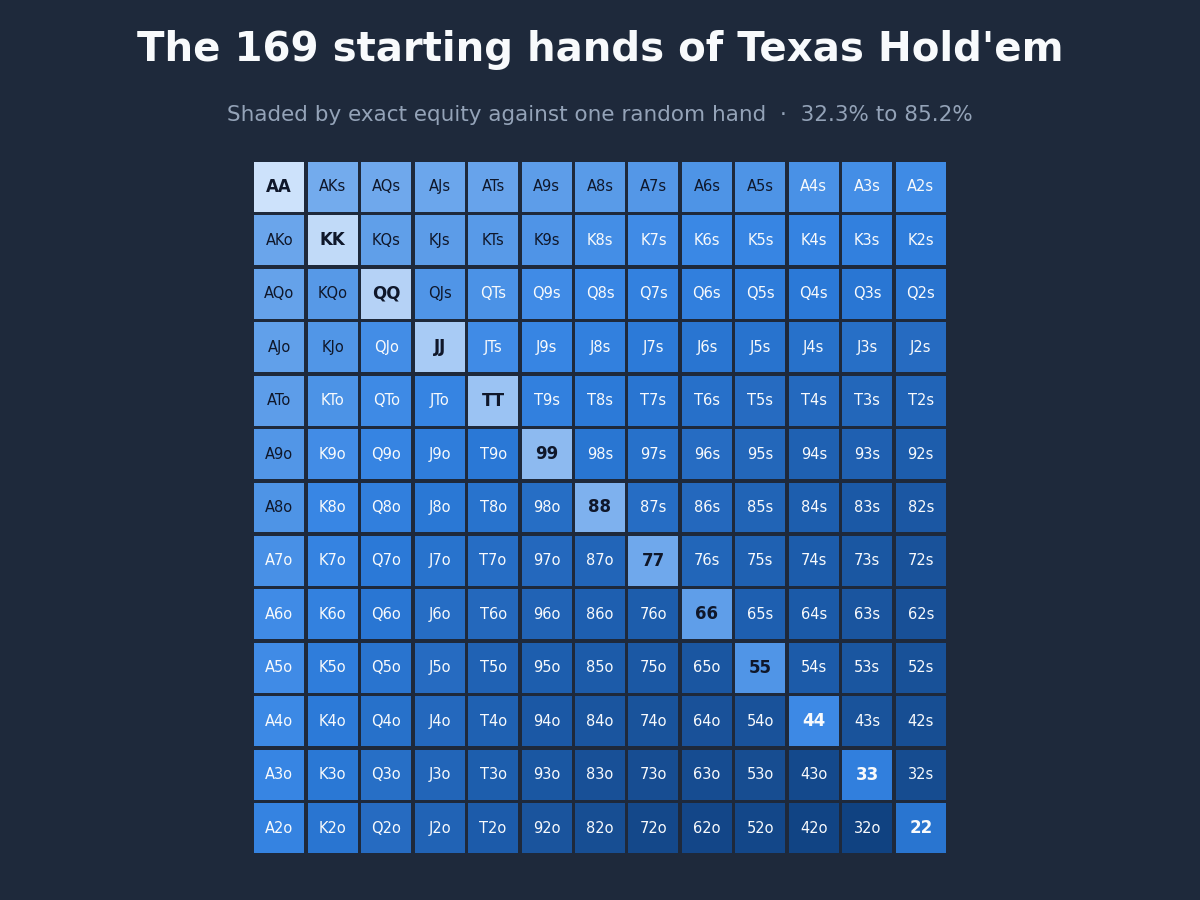
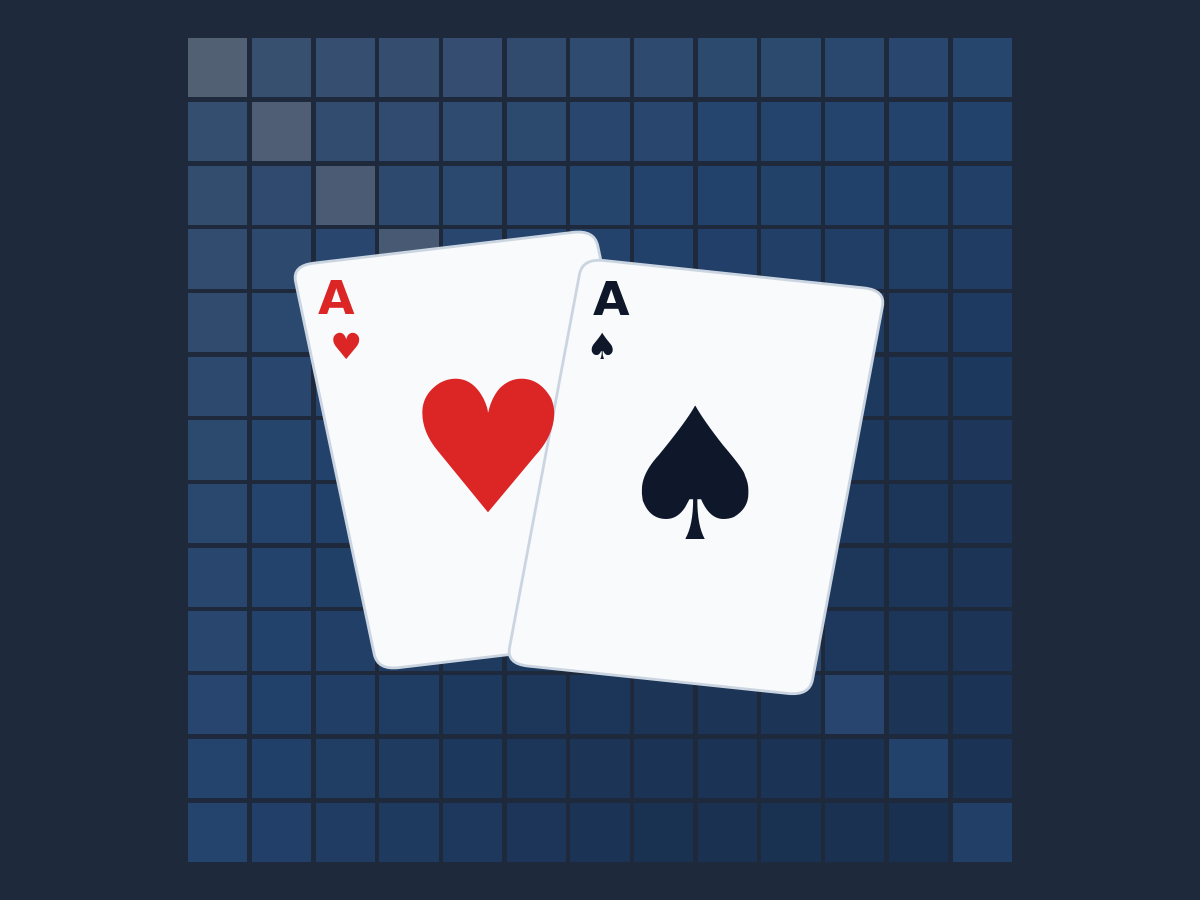
fix(web): redraw the cover so it works at the size it is actually seen
The cover was the 13 by 13 grid shaded by equity. As a chart it was honest; as
a cover it failed, and the failure is worth recording because it is easy to
repeat.

A cover on the site is seen in three places and the smallest one decides
everything. In the projects list it is about 215 pixels wide, beside a
photograph of a gallery and a pixel-art racetrack. At that size 169 labelled
cells are not a grid, they are grey noise, and a flat data table next to
photographs looks like a spreadsheet pasted in by mistake.

So it draws a picture instead: two aces, large, on the site's own dark slate.
It reads instantly at any size, says "poker" before a word is read, and
depicts the hand the page later spends a section showing is beaten by nothing
at all. The grid stays behind the cards at low contrast, where it is real data
up close and texture at thumbnail size. It earns its place by being true
rather than by being legible.

No figure is printed on it. A cover cannot be hovered, checked or read aloud,
so it makes no claim the page does not make properly with its method attached.

diff --git a/tools/make_cover_image.py b/tools/make_cover_image.py
@@ -1,23 +1,29 @@
-"""Draws the share image for the project page: the 13 x 13 grid of all 169 hands.
+"""Draws the share image for the project page.
 
-This is a cover, not a chart to be read: there is no hover, no table view and
-no way to look a number up, so it carries no axis values and makes no claim
-the page does not make properly elsewhere. What it has to do is be honest
-about its own encoding and recognisable as the thing the page is about.
+WHAT A COVER HAS TO DO, AND WHAT IT DOES NOT
+--------------------------------------------
+The first version of this was the 13 x 13 grid of all 169 hands, shaded by
+equity. As a chart it was honest; as a cover it failed, and the failure is
+worth writing down because it is easy to repeat.
 
-Encoding. Equity against one opponent holding a random hand — exact, from the
-head-to-head matrix — on a **single-hue sequential ramp**, light to dark, which
-is the only correct choice for a continuous magnitude. No rainbow, no
-red-to-green: a multi-hue ramp would invent categories the data does not have,
-and a red-green one would be unreadable to a tenth of the men who look at it.
-The ramp is the validated blue scale, and the surface is the site's own dark
-slate, so the image sits on the page it belongs to.
+A cover on this site is seen in three places, and the smallest one decides
+everything. In the projects list it is about 215 pixels wide, beside
+photographs of a gallery and a pixel-art racetrack. At that size 169 labelled
+cells are not a grid, they are grey noise, and a flat data table sitting next
+to photographs looks like a spreadsheet somebody pasted in by mistake.
 
-Layout. The grid is the one every poker player already knows how to read:
-rows and columns run from the ace down to the deuce, pairs on the diagonal,
-same-suit hands above it and different-suit hands below. That convention is
-worth more than any arrangement sorted by strength, because a reader who knows
-it can find a hand without being taught.
+So this draws a picture instead: two aces, large, on the site's own dark
+slate. It reads instantly at any size, it says "poker" before a word is read,
+and the thing it depicts is the best hand in the deck, which the page then
+spends a section explaining is beaten by nothing at all.
+
+The grid is still there, behind the cards, at low contrast. Up close it is the
+real shading of the real data, which is what the page is about; at thumbnail
+size it is texture. It earns its place by being true rather than by being
+legible.
+
+No number is printed. A cover cannot be checked, hovered or read aloud, so it
+makes no claim that the page does not make properly, with its method attached.
 """
 
 import json
@@ -28,26 +34,24 @@ import matplotlib
 matplotlib.use("Agg")
 import matplotlib.pyplot as plt
 from matplotlib.colors import LinearSegmentedColormap
+from matplotlib.patches import FancyBboxPatch
+from matplotlib.transforms import Affine2D
 
 REPO = Path(__file__).resolve().parent.parent
 WEB = REPO / "web"
 
 RANKS = "AKQJT98765432"
 
-# The site's dark surface, and the ink that reads on it.
+# The site's own dark surface and ink, so the cover sits on the page it belongs
+# to rather than on top of it.
 SURFACE = "#1e293b"
-INK = "#f8fafc"
-INK_MUTED = "#94a3b8"
+CARD_FACE = "#f8fafc"
+CARD_EDGE = "#cbd5e1"
+BLACK_SUIT = "#0f172a"
+RED_SUIT = "#dc2626"
 
-# The single-hue sequential ramp, weakest first. This is a *sequential*
-# encoding of a continuous quantity, not an ordinal one, so it is allowed the
-# full range of the scale: the end nearest the surface recedes into it, which
-# is exactly what "this hand is worth almost nothing" should look like. An
-# ordinal ramp — discrete, ordered tiers — would have to hold its near-surface
-# end clear of the background instead, and the page's banded view does.
-#
-# Every step is a named step of the reference blue scale, not interpolated by
-# hand, so the ramp is reproducible rather than eyeballed.
+# The single-hue sequential ramp behind the cards, weakest first. Named steps
+# of the reference blue scale, not interpolated by hand.
 RAMP = ["#104281", "#184f95", "#1c5cab", "#256abf", "#2a78d6", "#3987e5",
         "#5598e7", "#6da7ec", "#86b6ef", "#9ec5f4", "#b7d3f6", "#cde2fb"]
 
@@ -66,6 +70,54 @@ def grid_position(hand):
     return max(high, low), min(high, low)
 
 
+def draw_background_grid(axes, equity, colours, geometry):
+    """The real data, at low contrast, as texture behind the cards."""
+    lowest, highest = min(equity.values()), max(equity.values())
+    left, bottom, cell_w, cell_h, gap_w, gap_h = geometry
+
+    for hand, value in equity.items():
+        row, column = grid_position(hand)
+        fraction = (value - lowest) / (highest - lowest)
+
+        axes.add_patch(plt.Rectangle(
+            (left + column * cell_w + gap_w / 2,
+             bottom + (12 - row) * cell_h + gap_h / 2),
+            cell_w - gap_w, cell_h - gap_h,
+            facecolor=colours(fraction), edgecolor="none", alpha=0.30,
+            transform=axes.transAxes, clip_on=False, zorder=1))
+
+
+def draw_card(axes, centre_x, centre_y, width, height, angle, rank, suit, red):
+    """One playing card: a rounded white face, rotated, with its rank and pip.
+
+    Rotation is applied as a transform on top of the axes transform, so the
+    card is composed in plain axes coordinates and tilted afterwards rather
+    than every corner being worked out by hand.
+    """
+    rotation = (Affine2D().rotate_deg_around(centre_x, centre_y, angle)
+                + axes.transAxes)
+    colour = RED_SUIT if red else BLACK_SUIT
+
+    axes.add_patch(FancyBboxPatch(
+        (centre_x - width / 2, centre_y - height / 2), width, height,
+        boxstyle="round,pad=0,rounding_size=0.018",
+        facecolor=CARD_FACE, edgecolor=CARD_EDGE, linewidth=2,
+        transform=rotation, clip_on=False, zorder=3))
+
+    # The index in the top-left corner, as on a real card, and the large pip
+    # in the middle. The bottom-right index is left off on purpose: at
+    # thumbnail size it is invisible, and leaving it out keeps the face clean.
+    axes.text(centre_x - width / 2 + 0.030, centre_y + height / 2 - 0.045,
+              rank, transform=rotation, ha="center", va="center",
+              fontsize=34, fontweight="bold", color=colour, zorder=4)
+    axes.text(centre_x - width / 2 + 0.030, centre_y + height / 2 - 0.098,
+              suit, transform=rotation, ha="center", va="center",
+              fontsize=26, color=colour, zorder=4)
+    axes.text(centre_x, centre_y - 0.012, suit,
+              transform=rotation, ha="center", va="center",
+              fontsize=132, color=colour, zorder=4)
+
+
 def main():
     hands_path = WEB / "hands.json"
     if not hands_path.exists():
@@ -78,77 +130,42 @@ def main():
               for record in data["hands"]}
 
     colours = LinearSegmentedColormap.from_list("preflop", RAMP)
-    lowest, highest = min(equity.values()), max(equity.values())
 
-    # 1200 x 900 at 100 dpi: 4:3, which is what the site's list thumbnails crop
-    # from, so the cover shows whole rather than cropped.
-    # The axes is made to fill the whole figure. Left at its default it sits
-    # inside matplotlib's margins, and then every fraction below would be a
-    # fraction of that inset box rather than of the canvas, which quietly makes
-    # the geometry wrong while still producing a picture.
-    figure = plt.figure(figsize=(12.0, 9.0), dpi=100)
+    # 1200 x 900 at 100 dpi: 4:3, which is the ratio the site's list thumbnails
+    # crop from, so the cover shows whole rather than cropped.
+    width_inches, height_inches = 12.0, 9.0
+    figure = plt.figure(figsize=(width_inches, height_inches), dpi=100)
+
+    # The axes fills the whole figure. Left at its default it sits inside
+    # matplotlib's margins, and then every fraction below would be a fraction
+    # of that inset box rather than of the canvas.
     axes = figure.add_axes([0.0, 0.0, 1.0, 1.0])
     figure.patch.set_facecolor(SURFACE)
     axes.set_facecolor(SURFACE)
     axes.set_axis_off()
 
-    # Geometry. Axes fractions are fractions of each dimension, and the canvas
-    # is 4:3, so a cell that is square on screen needs a different fraction of
-    # the width than of the height. Getting this wrong is what makes a grid of
-    # squares come out as a grid of rectangles.
-    width_inches, height_inches = 12.0, 9.0
-    title_band = 1.6        # inches reserved above the grid, for the two lines
-    bottom_margin = 0.45    # inches of surface below it, so nothing touches the edge
-
-    side = min(height_inches - title_band - bottom_margin, width_inches) / 13
-    gap = 0.035             # inches of surface between cells, not a border
-
-    # Fractions of each dimension, derived from one measurement in inches, so
-    # the cells and the gaps between them are square on screen rather than
-    # square in the coordinate system.
+    # Geometry for the background grid. Axes fractions are fractions of each
+    # dimension and the canvas is 4:3, so a cell that is square on screen needs
+    # a different fraction of the width than of the height.
+    side = height_inches / 13 * 0.92
     cell_w, cell_h = side / width_inches, side / height_inches
-    gap_w, gap_h = gap / width_inches, gap / height_inches
-    left = 0.5 - cell_w * 13 / 2
-    bottom = bottom_margin / height_inches
+    gap = 0.045
+    geometry = (0.5 - cell_w * 13 / 2, 0.5 - cell_h * 13 / 2,
+                cell_w, cell_h, gap / width_inches, gap / height_inches)
 
-    for hand, value in equity.items():
-        row, column = grid_position(hand)
-        shade = (value - lowest) / (highest - lowest)
+    draw_background_grid(axes, equity, colours, geometry)
 
-        axes.add_patch(plt.Rectangle(
-            (left + column * cell_w + gap_w / 2,
-             bottom + (12 - row) * cell_h + gap_h / 2),
-            cell_w - gap_w, cell_h - gap_h,
-            facecolor=colours(shade), edgecolor="none",
-            transform=axes.transAxes, clip_on=False))
-
-        # The label is identity, not a value: it says which hand the cell is,
-        # and the number it stands for is nowhere on this image on purpose.
-        # Ink flips to dark on the pale end of the ramp so it stays readable.
-        axes.text(left + column * cell_w + cell_w / 2,
-                  bottom + (12 - row) * cell_h + cell_h / 2,
-                  hand, transform=axes.transAxes,
-                  ha="center", va="center",
-                  fontsize=12 if len(hand) == 2 else 10.5,
-                  color="#0f172a" if shade > 0.52 else INK,
-                  fontweight="bold" if len(hand) == 2 else "normal")
-
-    axes.text(0.5, 0.945, "The 169 starting hands of Texas Hold'em",
-              transform=axes.transAxes, ha="center", va="center",
-              fontsize=29, color=INK, fontweight="semibold")
-    axes.text(0.5, 0.872,
-              "Shaded by exact equity against one random hand  ·  "
-              f"{lowest * 100:.1f}% to {highest * 100:.1f}%",
-              transform=axes.transAxes, ha="center", va="center",
-              fontsize=15.5, color=INK_MUTED)
+    # Two aces, overlapping and tilted apart, as a hand would be held. Drawn
+    # back to front so the near card overlaps the far one.
+    draw_card(axes, 0.405, 0.50, 0.255, 0.455, 9, "A", "♥", red=True)
+    draw_card(axes, 0.580, 0.47, 0.255, 0.455, -8, "A", "♠", red=False)
 
     destination = WEB / "cover.png"
     figure.savefig(destination, facecolor=SURFACE, pad_inches=0)
     plt.close(figure)
 
     print(f"Wrote {destination.relative_to(REPO)} "
-          f"({destination.stat().st_size / 1024:.0f} KB, "
-          f"shading {lowest * 100:.2f}% to {highest * 100:.2f}%)")
+          f"({destination.stat().st_size / 1024:.0f} KB)")
     return 0
 
 
